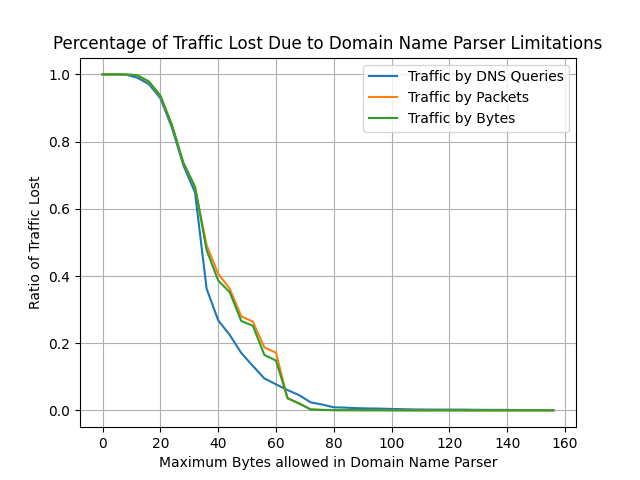
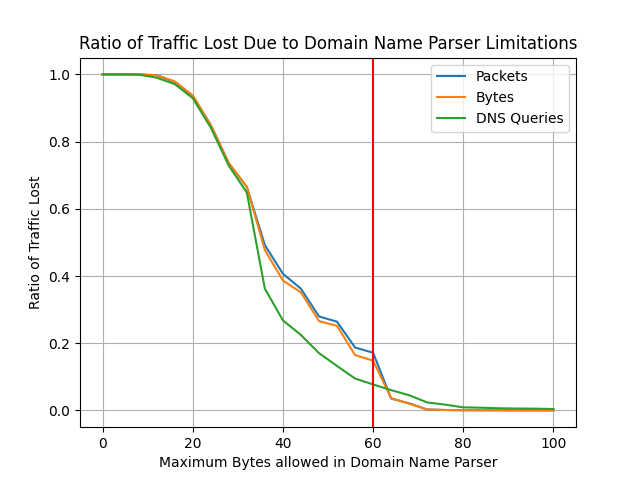
asdf

diff --git a/DNS_Netassay/PaperResults/parser/p4_graphs.py b/DNS_Netassay/PaperResults/parser/p4_graphs.py
@@ -34,22 +34,25 @@ for r in rows:
     packets_arr.append(1 - float(values[1]) / true_packets_total)
     bytes_arr.append(1 - float(values[2]) / true_bytes_total)
     count += 1
+    if count == 26:
+        break
 
 
 fig, ax = plt.subplots()
 
-line1, = ax.plot(numBytesList, dns_arr)
-line1.set_label('Traffic by DNS Queries')
-
 line2, = ax.plot(numBytesList, packets_arr)
-line2.set_label('Traffic by Packets')
-
 line3, = ax.plot(numBytesList, bytes_arr)
-line3.set_label('Traffic by Bytes')
+line1, = ax.plot(numBytesList, dns_arr)
+
+line2.set_label('Packets')
+line3.set_label('Bytes')
+line1.set_label('DNS Queries')
+
+plt.axvline(x=60, color='red')
 
 ax.legend()
 
-ax.set(xlabel='Maximum Bytes allowed in Domain Name Parser', ylabel='Ratio of Traffic Lost', title='Percentage of Traffic Lost Due to Domain Name Parser Limitations')
+ax.set(xlabel='Maximum Bytes allowed in Domain Name Parser', ylabel='Ratio of Traffic Lost', title='Ratio of Traffic Lost Due to Domain Name Parser Limitations')
 ax.grid()
 fig.savefig("dns_parser_limit.png")
 

diff --git a/DNS_Netassay/PaperResults/timeout/timeout_limits.py b/DNS_Netassay/PaperResults/timeout/timeout_limits.py
@@ -129,7 +129,8 @@ if __name__ == '__main__':
 
     outfile = open(argv[5], 'w')
 
-    for timeout in range(0, 610, 10):
+    #for timeout in range(0, 610, 10):
+    for timeout in range(0, 61):
         
         TIMEOUT = timeout
         print(TIMEOUT)

diff --git a/DNS_Netassay/PaperResults/stages/p4_graphs.py b/DNS_Netassay/PaperResults/stages/p4_graphs.py
@@ -22,7 +22,7 @@ dns_60_total = 26419
 packets_60_total = 122386
 bytes_60_total = 7171016 # key thing is here
 
-f = open('memory_limits.txt', 'r')
+f = open('stage_limits.txt', 'r')
 by_stage = f.read().split('*')
 
 
